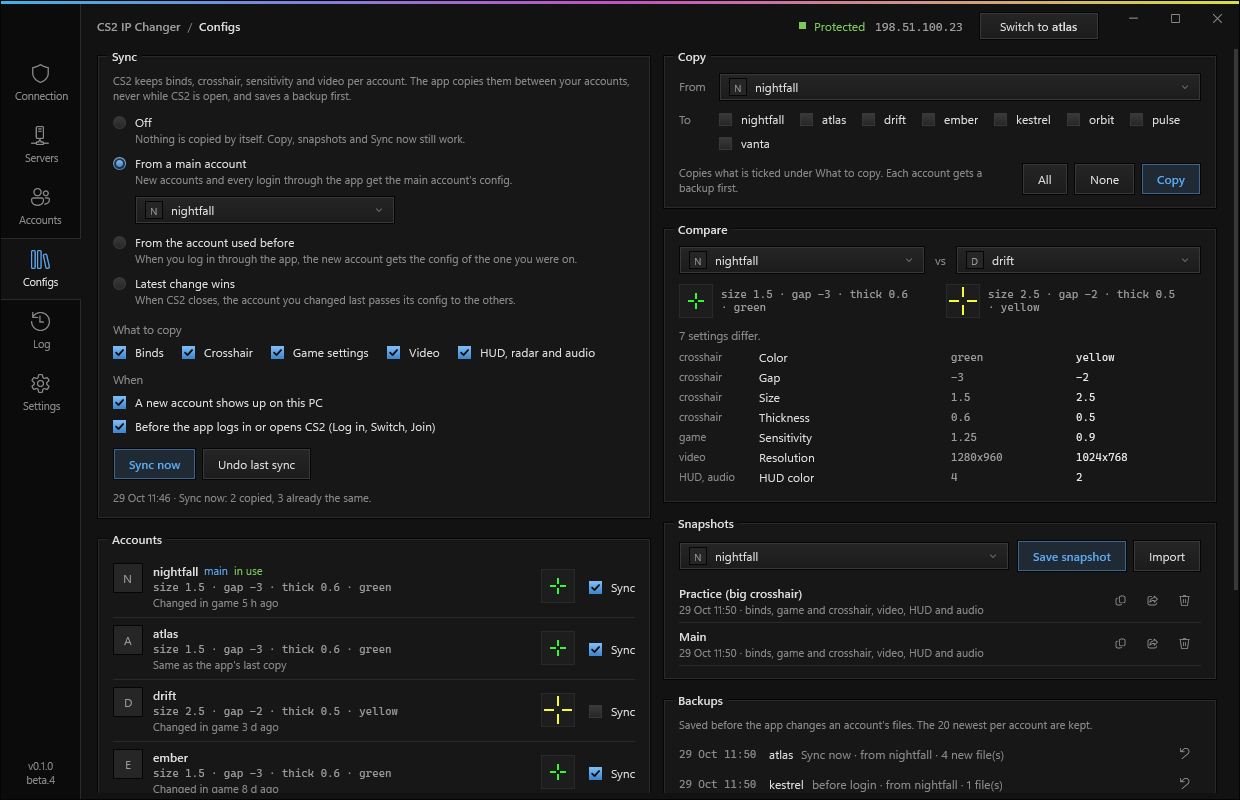
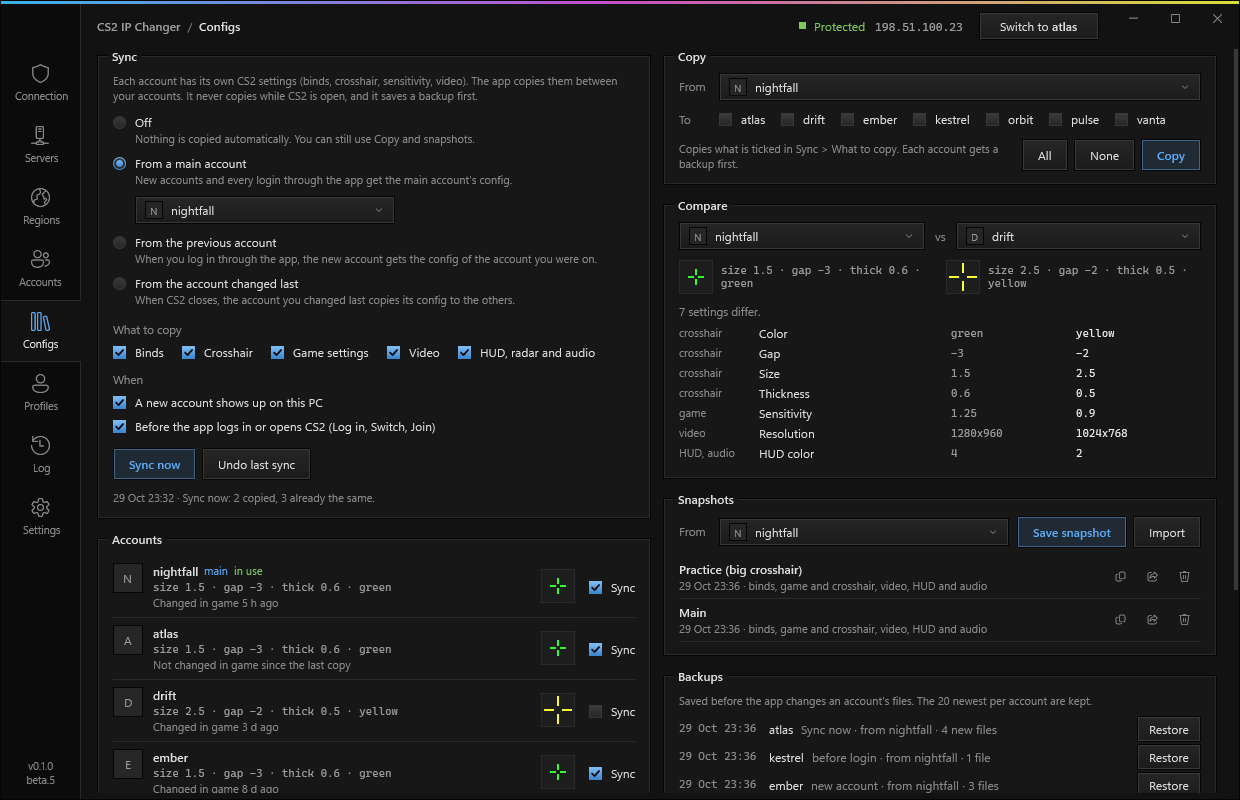
CS2 IP Changer 0.1.0-beta.5
Screenshots from beta.5, the CHANGELOG section and the release notes.

diff --git a/docs/release-0.1.0-beta.5.md b/docs/release-0.1.0-beta.5.md
@@ -1,0 +1,27 @@
+## CS2 IP Changer 0.1.0-beta.5
+
+Three new pages (Regions, Configs, Profiles), a Phone setup that does the work, a No phone mode, and the rest of your PC finally stays off the phone.
+
+### New
+- **Regions:** pick where CS2 matchmaking can put you (Premier, Competitive, Casual, Deathmatch, Wingman). Turned-off regions are blocked with one Windows Firewall rule for `cs2.exe` only, and only on Valve's relays, so Steam, friends and community servers keep working. Only this region, Closest 3, your continent, Allow all or Ping under X ms.
+- **Configs:** copy your CS2 config between your accounts (binds, crosshair, game settings, video, HUD), or keep them in sync from a main account. Never while CS2 is open, always with a backup first. Snapshots, Compare with a crosshair preview, and Undo last sync.
+- **Profiles:** change name, picture, bio, country, privacy and custom URL on the accounts you pick, from templates. Sign in like Steam's login page (password with Steam Guard, or a QR code). Copy a look from any Steam profile link. Restore originals puts each profile back.
+- **Phone setup** now does the steps itself: the cable, the USB driver, USB debugging, tethering, the phone's Wi-Fi and the rest of the PC, and tells you the one thing left when it can't.
+- **No phone mode:** play on your home connection when the phone isn't with you. Not protected (the page says so), but Accounts, Configs, Profiles and Regions still work.
+
+### Fixed
+- **The rest of the PC no longer goes through the phone** in Game only and No phone. A high metric wasn't enough: Windows kept the phone anyway. The phone's connection now ignores its default route while you have a home network, and gets it back in Whole PC, without a home network and when the app closes. The game, Steam and the IP test keep their own routes through the phone.
+- **Account switching** works with today's Steam client: it used to land on the account Steam already had and still say "Switched". The app now checks which account Steam really logged in to.
+- False "Phone Wi-Fi is on" alarms with CS2 open, and Log lines that repeated every few seconds.
+
+### Security
+- WPF's files are unpacked to a folder only admins can change, and the app warns when it runs as admin from a folder any program can change (like Downloads).
+- Profiles only talks to Steam over HTTPS, sends session cookies only to steamcommunity.com, and never writes sign-in tokens to the Log or the bug report.
+
+### Upgrading
+If you have beta.4, the app offers this update by itself and checks its signature first. Your settings carry over; Configs sync starts off and no region is blocked until you choose.
+
+### Check the download
+`CS2IPChanger.exe.sha256` has the exe's SHA-256 and `CS2IPChanger.exe.sha256.sig` its signature. The build attestation proves it came from this repo's workflow: `gh attestation verify CS2IPChanger.exe -R Sepd0x/cs2-ip-changer`.
+
+Full list in `CHANGELOG.md`.

diff --git a/CHANGELOG.md b/CHANGELOG.md
@@ -4,6 +4,8 @@ Notable changes to this project are listed here. The format follows [Keep a Chan
 
 ## [Unreleased]
 
+## [0.1.0-beta.5] - 2026-10-29
+
 ### Added
 - Regions page: pick where CS2 matchmaking (Premier, Competitive, Casual, Deathmatch, Wingman) can put you. The list of regions comes from Valve (`GetSDRConfig`, app 730), grouped by city and continent, with each region's ping measured through the phone. Turn regions on or off one by one, or use Only this region, Closest 3, your continent only, Allow all or Ping under X ms. Turned-off regions are blocked with one Windows Firewall rule for `cs2.exe` only and only on Valve's relay IPs, so Steam, friends and community servers keep working. The last list is saved for offline use, the rule is rebuilt when Valve changes the list, and it comes back at every start. Allow all and `--restore` remove it. Changes apply at once; CS2 re-measures the regions on its next start.
 - Configs page: copies your CS2 config between your accounts. Binds, crosshair, game settings, video, and HUD, radar and audio can each be copied on their own (the crosshair without the sensitivity, too). Sync modes: from a main account, from the account used before, or latest change wins; it runs when a new account shows up, before the app logs in or opens CS2, or with Sync now, and an account can be left out. Nothing is written while CS2 is open (the copy waits until it closes), the Steam Cloud copy is written the way CS2 does, and every change keeps a backup with Undo last sync. Snapshots save a config under a name and export or import it as a .zip; Compare lists the settings that differ between two accounts or snapshots, with a crosshair preview. Right-click an account for Copy config to and Use as main config.
@@ -230,7 +232,8 @@ First public release, as ServerRouteTool.
 - Restore network, to undo every route and rule in one click.
 - Dark interface in Portuguese.
 
-[Unreleased]: ../../compare/v0.1.0-beta.4...HEAD
+[Unreleased]: ../../compare/v0.1.0-beta.5...HEAD
+[0.1.0-beta.5]: ../../releases/tag/v0.1.0-beta.5
 [0.1.0-beta.4]: ../../releases/tag/v0.1.0-beta.4
 [0.1.0-beta.3]: ../../releases/tag/v0.1.0-beta.3
 [0.1.0-beta.2]: ../../releases/tag/v0.1.0-beta.2
